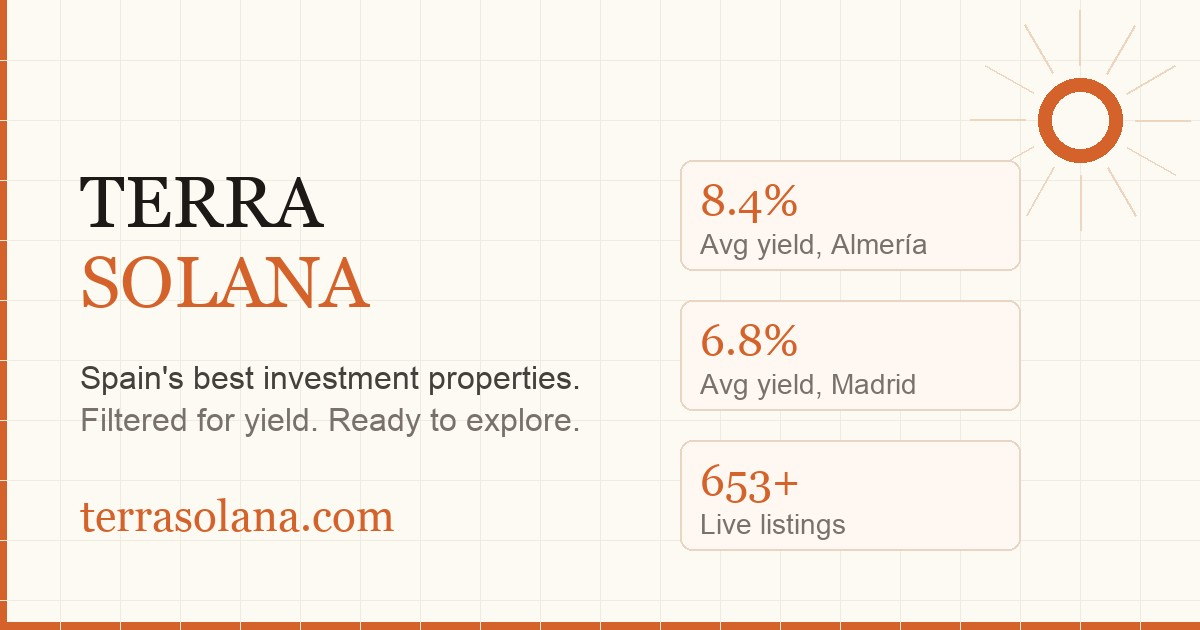
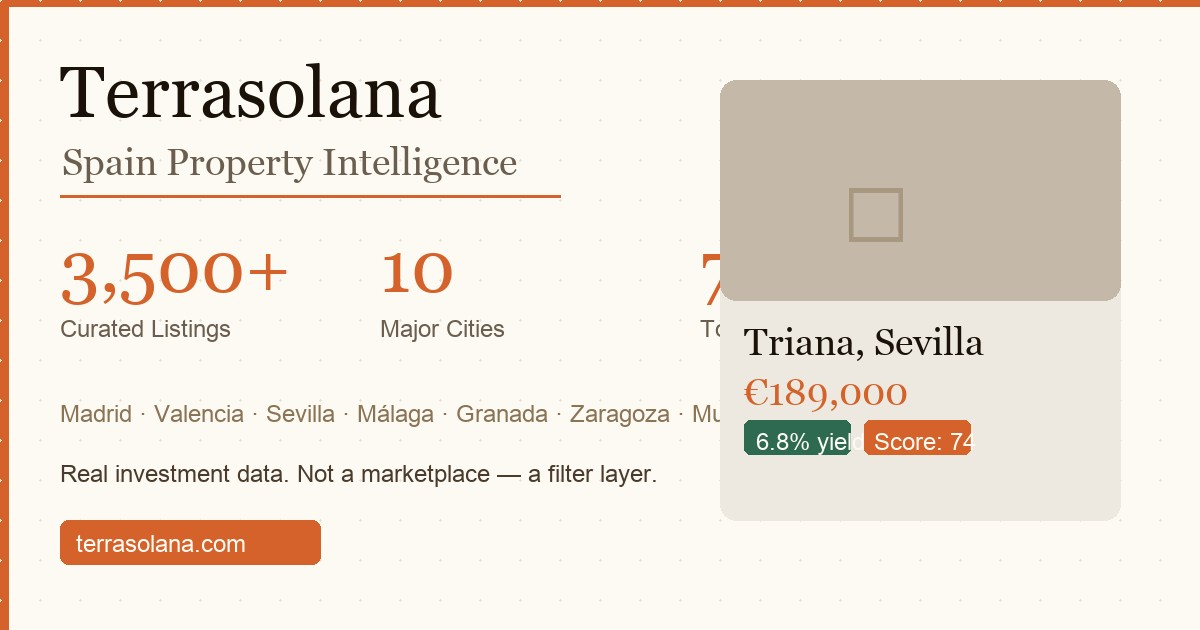
6 fixes: OG image updated, 10-city footer, city photos new cities, blog stats updated, dark mode 44px touch, hero H1 mobile clamp

Changed region(s): [[0.0, 0.0, 1.0, 1.0], [0.5858, 0.1206, 0.9867, 0.4825], [0.3083, 0.5127, 0.4317, 0.5429]]

diff --git a/privacy.html b/privacy.html
@@ -20,7 +20,7 @@
 <body>
 <nav id="mainNav">
   <a href="/" class="nav-logo"><div class="nav-logomark">☀</div><span class="nav-wordmark">Terra<span>solana</span></span></a>
-  <ul class="nav-links"><li><a href="/search.html">Search</a></li><li><a href="/about.html">About</a></li><li><a href="/faq.html">FAQ</a></li>
+  <ul class="nav-links"><li><a href="/search.html">Search Properties</a></li><li><a href="/search.html?city=valencia">Valencia</a></li><li><a href="/search.html?city=madrid">Madrid</a></li><li><a href="/search.html?city=malaga">Málaga</a></li><li><a href="/search.html?city=alicante">Alicante</a></li><li><a href="/search.html?city=almeria">Almería</a></li><li><a href="/search.html?city=sevilla">Sevilla</a></li><li><a href="/search.html?city=granada">Granada</a></li><li><a href="/search.html?city=zaragoza">Zaragoza</a></li><li><a href="/search.html?city=murcia">Murcia</a></li><li><a href="/search.html?city=palma">Palma de Mallorca</a></li><li><a href="/about.html">About</a></li><li><a href="/faq.html">FAQ</a></li>
     <li><a href="/blog.html">Blog</a></li>
     <li><a href="/newsletter.html">Newsletter</a></li></ul>
   <button id="themeToggle" class="theme-toggle" aria-label="Toggle dark mode" title="Toggle dark mode">☀</button>
@@ -57,7 +57,7 @@
   <h2>Contact</h2>
   <p>Questions about this policy: <a href="mailto:contact@terrasolana.com" style="color:var(--accent)">contact@terrasolana.com</a></p>
 </div>
-<footer><div class="footer-inner"><div><div class="footer-brand-name">Terrasolana</div><p class="footer-brand-desc">Spain property intelligence for serious buyers.</p></div><div><div class="footer-col-title">Explore</div><ul class="footer-links"><li><a href="/search.html">Search</a></li><li><a href="/about.html">About</a></li></ul></div><div><div class="footer-col-title">Legal</div><ul class="footer-links"><li><a href="/privacy.html">Privacy</a></li><li><a href="/terms.html">Terms</a></li></ul></div></div><div class="footer-bottom"><span>© 2026 Terrasolana</span></div></footer>
+<footer><div class="footer-inner"><div><div class="footer-brand-name">Terrasolana</div><p class="footer-brand-desc">Spain property intelligence for serious buyers.</p></div><div><div class="footer-col-title">Explore</div><ul class="footer-links"><li><a href="/search.html">Search Properties</a></li><li><a href="/search.html?city=valencia">Valencia</a></li><li><a href="/search.html?city=madrid">Madrid</a></li><li><a href="/search.html?city=malaga">Málaga</a></li><li><a href="/search.html?city=alicante">Alicante</a></li><li><a href="/search.html?city=almeria">Almería</a></li><li><a href="/search.html?city=sevilla">Sevilla</a></li><li><a href="/search.html?city=granada">Granada</a></li><li><a href="/search.html?city=zaragoza">Zaragoza</a></li><li><a href="/search.html?city=murcia">Murcia</a></li><li><a href="/search.html?city=palma">Palma de Mallorca</a></li><li><a href="/about.html">About</a></li></ul></div><div><div class="footer-col-title">Legal</div><ul class="footer-links"><li><a href="/privacy.html">Privacy</a></li><li><a href="/terms.html">Terms</a></li></ul></div></div><div class="footer-bottom"><span>© 2026 Terrasolana</span></div></footer>
 <script>window.addEventListener('scroll',()=>{document.getElementById('mainNav').classList.toggle('scrolled',window.scrollY>20)});</script>
 <script src="/theme.js"></script>
 <script src="/consent.js"></script>

diff --git a/terms.html b/terms.html
@@ -20,7 +20,7 @@
 <body>
 <nav id="mainNav">
   <a href="/" class="nav-logo"><div class="nav-logomark">☀</div><span class="nav-wordmark">Terra<span>solana</span></span></a>
-  <ul class="nav-links"><li><a href="/search.html">Search</a></li><li><a href="/about.html">About</a></li><li><a href="/faq.html">FAQ</a></li>
+  <ul class="nav-links"><li><a href="/search.html">Search Properties</a></li><li><a href="/search.html?city=valencia">Valencia</a></li><li><a href="/search.html?city=madrid">Madrid</a></li><li><a href="/search.html?city=malaga">Málaga</a></li><li><a href="/search.html?city=alicante">Alicante</a></li><li><a href="/search.html?city=almeria">Almería</a></li><li><a href="/search.html?city=sevilla">Sevilla</a></li><li><a href="/search.html?city=granada">Granada</a></li><li><a href="/search.html?city=zaragoza">Zaragoza</a></li><li><a href="/search.html?city=murcia">Murcia</a></li><li><a href="/search.html?city=palma">Palma de Mallorca</a></li><li><a href="/about.html">About</a></li><li><a href="/faq.html">FAQ</a></li>
     <li><a href="/blog.html">Blog</a></li>
     <li><a href="/newsletter.html">Newsletter</a></li></ul>
   <button id="themeToggle" class="theme-toggle" aria-label="Toggle dark mode" title="Toggle dark mode">☀</button>
@@ -46,7 +46,7 @@
   <h2>Contact</h2>
   <p><a href="mailto:contact@terrasolana.com" style="color:var(--accent)">contact@terrasolana.com</a></p>
 </div>
-<footer><div class="footer-inner"><div><div class="footer-brand-name">Terrasolana</div><p class="footer-brand-desc">Spain property intelligence for serious buyers.</p></div><div><div class="footer-col-title">Explore</div><ul class="footer-links"><li><a href="/search.html">Search</a></li><li><a href="/about.html">About</a></li></ul></div><div><div class="footer-col-title">Legal</div><ul class="footer-links"><li><a href="/privacy.html">Privacy</a></li><li><a href="/terms.html">Terms</a></li></ul></div></div><div class="footer-bottom"><span>© 2026 Terrasolana</span></div></footer>
+<footer><div class="footer-inner"><div><div class="footer-brand-name">Terrasolana</div><p class="footer-brand-desc">Spain property intelligence for serious buyers.</p></div><div><div class="footer-col-title">Explore</div><ul class="footer-links"><li><a href="/search.html">Search Properties</a></li><li><a href="/search.html?city=valencia">Valencia</a></li><li><a href="/search.html?city=madrid">Madrid</a></li><li><a href="/search.html?city=malaga">Málaga</a></li><li><a href="/search.html?city=alicante">Alicante</a></li><li><a href="/search.html?city=almeria">Almería</a></li><li><a href="/search.html?city=sevilla">Sevilla</a></li><li><a href="/search.html?city=granada">Granada</a></li><li><a href="/search.html?city=zaragoza">Zaragoza</a></li><li><a href="/search.html?city=murcia">Murcia</a></li><li><a href="/search.html?city=palma">Palma de Mallorca</a></li><li><a href="/about.html">About</a></li></ul></div><div><div class="footer-col-title">Legal</div><ul class="footer-links"><li><a href="/privacy.html">Privacy</a></li><li><a href="/terms.html">Terms</a></li></ul></div></div><div class="footer-bottom"><span>© 2026 Terrasolana</span></div></footer>
 <script>window.addEventListener('scroll',()=>{document.getElementById('mainNav').classList.toggle('scrolled',window.scrollY>20)});</script>
 <script src="/theme.js"></script>
 <script src="/consent.js"></script>

diff --git a/blog/best-places-invest-spain-2026.html b/blog/best-places-invest-spain-2026.html
@@ -201,13 +201,13 @@
 
     <p>The decision between these five markets comes down to three questions. First, what yield do you need to justify the investment? If you require 8% gross or above, Almería and Madrid's secondary districts offer the most reliable paths to that target. Valencia and Alicante can reach those levels selectively; Málaga requires careful neighbourhood selection to get there consistently in 2026. Second, how long can you commit capital? Almería and parts of Alicante are yield markets, not liquid trading markets. Buy there planning to hold for seven to ten years. Madrid offers the strongest combination of yield and exit options. Third, do you plan to use the property personally? Valencia, Alicante, and Málaga are each genuinely liveable cities with international infrastructure. Almería is not, in the way that matters to most Northern European buyers.</p>
 
-    <p>What all five cities share is this: they remain substantially more affordable than comparable European property markets in France, Portugal, or Italy, and their rental markets are structurally undersupplied relative to demand. The combination of tourism growth, EU relocation flows, and chronic under-construction of new residential supply means that rental demand is unlikely to weaken in any of these cities over the medium term. The risk is on the cost side — Spanish mortgage rates, while below their 2023 peak, remain meaningfully higher than the COVID-era floor — and on the regulatory side, particularly for anyone tempted by short-term rentals.</p>
+    <p>What all ten cities share is this: they remain substantially more affordable than comparable European property markets in France, Portugal, or Italy, and their rental markets are structurally undersupplied relative to demand. The combination of tourism growth, EU relocation flows, and chronic under-construction of new residential supply means that rental demand is unlikely to weaken in any of these cities over the medium term. The risk is on the cost side — Spanish mortgage rates, while below their 2023 peak, remain meaningfully higher than the COVID-era floor — and on the regulatory side, particularly for anyone tempted by short-term rentals.</p>
 
     <p>The best time to buy in any of these markets was two or three years ago. The second-best time, as the maxim goes, is now — but only with clear numbers, realistic yield expectations, and a local agent who knows the specific barrios where the genuine value sits. That combination is what Terrasolana is built to provide.</p>
   </div>
 
   <div class="blog-cta">
-    <h3>Browse investment-grade properties in all five cities</h3>
+    <h3>Browse investment-grade properties in all ten cities</h3>
     <p>Filter by yield, city, price, and opportunity score. Every listing comes with real investment data.</p>
     <a href="/search.html" class="btn-primary">Browse Properties →</a>
   </div>

diff --git a/blog/buy-to-let-rules-spain-2026.html b/blog/buy-to-let-rules-spain-2026.html
@@ -134,7 +134,7 @@
   <div class="blog-body">
     <p>Spain is one of the most accessible European countries for foreign property investors. There are no ownership restrictions on non-EU citizens, the legal framework for letting residential property is well-established and broadly landlord-friendly by European standards, and the Spanish property registry provides clear title verification. None of this means buying and letting in Spain is simple. It means the complexities are comprehensible with the right guidance rather than unknowable without it.</p>
 
-    <p>The most important thing to understand upfront is that Spain's rental regulatory landscape has been fragmenting at the regional level for the past three years, particularly around short-term tourist rentals. The national framework provided by the Urban Leases Act governs long-term residential letting consistently across the country. Short-term tourist lets are regulated by each of Spain's seventeen autonomous communities independently, and the rules differ dramatically between them. What is permitted in Andalusia may be prohibited in Valencia. What requires only registration in Murcia requires full planning consent in the Balearic Islands. This guide covers the national framework and the specific rules in the five cities Terrasolana covers — Madrid, Valencia, Málaga, Alicante, and Almería.</p>
+    <p>The most important thing to understand upfront is that Spain's rental regulatory landscape has been fragmenting at the regional level for the past three years, particularly around short-term tourist rentals. The national framework provided by the Urban Leases Act governs long-term residential letting consistently across the country. Short-term tourist lets are regulated by each of Spain's seventeen autonomous communities independently, and the rules differ dramatically between them. What is permitted in Andalusia may be prohibited in Valencia. What requires only registration in Murcia requires full planning consent in the Balearic Islands. This guide covers the national framework and the specific rules in the ten cities Terrasolana covers — Madrid, Valencia, Málaga, Alicante, and Almería.</p>
 
     <div class="warn-callout">
       <strong>Important:</strong> This guide provides general information for international buyers. It is not legal advice. Property law, tax rules, and short-term rental regulations in Spain change frequently and vary by autonomous community. Always consult a qualified Spanish abogado (property lawyer) and a gestor (tax advisor) before completing a purchase or beginning to let a property.

diff --git a/index.html b/index.html
@@ -19,7 +19,7 @@
   <link rel="stylesheet" href="/shared.css">
   <style>
     /* ── Hero ────────────────────────────────────────── */
-    .hero {
+    .hero { overflow: hidden;
       min-height: 100vh;
       display: flex;
       flex-direction: column;
@@ -283,7 +283,7 @@
     @media (max-width: 640px) {
       .hero  { padding: calc(var(--nav-height) + 32px) 16px 56px; }
       section { padding: 52px 16px; }
-      .hero-h1 { font-size: clamp(28px, 8vw, 40px); word-break: break-word; padding-right: 16px; }
+      .hero-h1 { font-size: clamp(26px, 7vw, 38px); word-break: break-word; overflow-wrap: break-word; padding-right: 16px; max-width: 100%; }
       .hero-sub { font-size: 16px; }
       .hero-cta { flex-direction: column; align-items: flex-start; }
       .hero-cta .btn-primary,
@@ -563,6 +563,11 @@
         <li><a href="/search.html?city=malaga">Málaga</a></li>
         <li><a href="/search.html?city=almeria">Almería</a></li>
         <li><a href="/search.html?city=alicante">Alicante</a></li>
+        <li><a href="/search.html?city=sevilla">Sevilla</a></li>
+        <li><a href="/search.html?city=granada">Granada</a></li>
+        <li><a href="/search.html?city=zaragoza">Zaragoza</a></li>
+        <li><a href="/search.html?city=murcia">Murcia</a></li>
+        <li><a href="/search.html?city=palma">Palma de Mallorca</a></li>
       </ul>
     </div>
     <div>
@@ -646,7 +651,7 @@ let listings = [];
 
 async function loadData() {
   try {
-    const res = await fetch('/data/listings.json?v=8');
+    const res = await fetch('/data/listings.json?v=9');
     listings = await res.json();
     populateHeroTopPicks();
     populateCities();
@@ -670,6 +675,11 @@ const CITY_PHOTOS = {
   malaga:   '/images/cities/malaga.jpg',
   almeria:  '/images/cities/almeria.jpg',
   alicante: '/images/cities/alicante.jpg',
+  sevilla:  'https://images.unsplash.com/photo-1559564484-4e2c7e13a97d?w=800&auto=format&fit=crop&q=80',
+  granada:  'https://images.unsplash.com/photo-1541343672885-9be56236302a?w=800&auto=format&fit=crop&q=80',
+  zaragoza: 'https://images.unsplash.com/photo-1558618666-fcd25c85cd64?w=800&auto=format&fit=crop&q=80',
+  murcia:   'https://images.unsplash.com/photo-1574362848149-11496d93a7c7?w=800&auto=format&fit=crop&q=80',
+  palma:    'https://images.unsplash.com/photo-1555990793-da11153b6c8b?w=800&auto=format&fit=crop&q=80',
 };
 
 function cityCardImage(c) {

diff --git a/contact.html b/contact.html
@@ -33,7 +33,7 @@
     <span class="nav-wordmark">Terra<span>solana</span></span>
   </a>
   <ul class="nav-links">
-    <li><a href="/search.html">Search</a></li>
+    <li><a href="/search.html">Search Properties</a></li><li><a href="/search.html?city=valencia">Valencia</a></li><li><a href="/search.html?city=madrid">Madrid</a></li><li><a href="/search.html?city=malaga">Málaga</a></li><li><a href="/search.html?city=alicante">Alicante</a></li><li><a href="/search.html?city=almeria">Almería</a></li><li><a href="/search.html?city=sevilla">Sevilla</a></li><li><a href="/search.html?city=granada">Granada</a></li><li><a href="/search.html?city=zaragoza">Zaragoza</a></li><li><a href="/search.html?city=murcia">Murcia</a></li><li><a href="/search.html?city=palma">Palma de Mallorca</a></li>
     <li><a href="/about.html">About</a></li>
     <li><a href="/faq.html">FAQ</a></li>
     <li><a href="/blog.html">Blog</a></li>
@@ -82,7 +82,7 @@
 <footer>
   <div class="footer-inner">
     <div><div class="footer-brand-name">Terrasolana</div><p class="footer-brand-desc">Spain property intelligence for serious buyers.</p></div>
-    <div><div class="footer-col-title">Explore</div><ul class="footer-links"><li><a href="/search.html">Search</a></li><li><a href="/newsletter.html">Newsletter</a></li><li><a href="/about.html">About</a></li></ul></div>
+    <div><div class="footer-col-title">Explore</div><ul class="footer-links"><li><a href="/search.html">Search Properties</a></li><li><a href="/search.html?city=valencia">Valencia</a></li><li><a href="/search.html?city=madrid">Madrid</a></li><li><a href="/search.html?city=malaga">Málaga</a></li><li><a href="/search.html?city=alicante">Alicante</a></li><li><a href="/search.html?city=almeria">Almería</a></li><li><a href="/search.html?city=sevilla">Sevilla</a></li><li><a href="/search.html?city=granada">Granada</a></li><li><a href="/search.html?city=zaragoza">Zaragoza</a></li><li><a href="/search.html?city=murcia">Murcia</a></li><li><a href="/search.html?city=palma">Palma de Mallorca</a></li><li><a href="/newsletter.html">Newsletter</a></li><li><a href="/about.html">About</a></li></ul></div>
     <div><div class="footer-col-title">Legal</div><ul class="footer-links"><li><a href="/privacy.html">Privacy</a></li><li><a href="/terms.html">Terms</a></li></ul></div>
   </div>
   <div class="footer-bottom"><span>© 2026 Terrasolana</span></div>

diff --git a/blog/rental-yield-spain-by-city.html b/blog/rental-yield-spain-by-city.html
@@ -138,7 +138,7 @@
   <div class="blog-body">
     <p>Most articles about rental yield in Spain cite the same figures: 5.4% national average, slightly higher in secondary cities, slightly lower in prime locations. These numbers are accurate in the way that averages are always accurate — they summarise a dataset without telling you anything actionable about the specific market you are trying to enter. A global average gross yield of 5.4% includes a three-bedroom penthouse in Puerto Banús sitting unsold for eighteen months and a sixty-square-metre apartment in Almería's old town producing 13.5% gross on an eighty-thousand-euro purchase price. These are not the same investment. The average obscures what matters.</p>
 
-    <p>This analysis uses Terrasolana's own database of 653 active listings scraped from Idealista across five Spanish cities, filtered to show only investment-grade properties yielding three percent or above. The yield figures below represent what is actually available to buy today — not theoretical median calculations or market reports based on asking rents. Rental estimates are derived from city-level market benchmarks calibrated by property size and type, and cross-referenced against the <a href="/methodology.html">methodology we publish openly</a>.</p>
+    <p>This analysis uses Terrasolana's own database of 3,500+ active listings scraped across ten Spanish cities, filtered to show only investment-grade properties yielding three percent or above. The yield figures below represent what is actually available to buy today — not theoretical median calculations or market reports based on asking rents. Rental estimates are derived from city-level market benchmarks calibrated by property size and type, and cross-referenced against the <a href="/methodology.html">methodology we publish openly</a>.</p>
 
     <h2>How Rental Yield Actually Works in Spain</h2>
 

diff --git a/search.html b/search.html
@@ -808,7 +808,7 @@ function loadMore() { page++; renderResults(); }
 
 // ── Card builder ───────────────────────────────────────
 function cityEmoji(c) {
-  return {valencia:'🌊',madrid:'🏙',malaga:'☀',almeria:'🏺',alicante:'⛵'}[c] || '🏠';
+  return {valencia:'🌊',madrid:'🏙',malaga:'☀',almeria:'🏺',alicante:'⛵',sevilla:'🦢',granada:'🕌',zaragoza:'🏛',murcia:'🌿',palma:'🌴'}[c] || '🏠';
 }
 function formatPrice(p) {
   if (!p) return '—';
@@ -825,6 +825,11 @@ const CITY_PHOTOS = {
   malaga:   '/images/cities/malaga.jpg',
   almeria:  '/images/cities/almeria.jpg',
   alicante: '/images/cities/alicante.jpg',
+  sevilla:  'https://images.unsplash.com/photo-1559564484-4e2c7e13a97d?w=800&auto=format&fit=crop&q=80',
+  granada:  'https://images.unsplash.com/photo-1541343672885-9be56236302a?w=800&auto=format&fit=crop&q=80',
+  zaragoza: 'https://images.unsplash.com/photo-1558618666-fcd25c85cd64?w=800&auto=format&fit=crop&q=80',
+  murcia:   'https://images.unsplash.com/photo-1574362848149-11496d93a7c7?w=800&auto=format&fit=crop&q=80',
+  palma:    'https://images.unsplash.com/photo-1555990793-da11153b6c8b?w=800&auto=format&fit=crop&q=80',
 };
 
 function cardImage(l) {
@@ -1092,7 +1097,7 @@ async function init() {
   renderFilters();
 
   try {
-    const res = await fetch('/data/listings.json?v=8');
+    const res = await fetch('/data/listings.json?v=9');
     allListings = await res.json();
     applyFilters();
   } catch(e) {

diff --git a/about.html b/about.html
@@ -126,10 +126,16 @@
       <div class="footer-col-title">Explore</div>
       <ul class="footer-links">
         <li><a href="/search.html">Search Properties</a></li>
-        <li><a href="/blog.html">Blog</a></li>
-        <li><a href="/newsletter.html">Newsletter</a></li>
-        <li><a href="/methodology.html">Methodology</a></li>
-        <li><a href="/about.html">About</a></li>
+        <li><a href="/search.html?city=valencia">Valencia</a></li>
+        <li><a href="/search.html?city=madrid">Madrid</a></li>
+        <li><a href="/search.html?city=malaga">Málaga</a></li>
+        <li><a href="/search.html?city=alicante">Alicante</a></li>
+        <li><a href="/search.html?city=almeria">Almería</a></li>
+        <li><a href="/search.html?city=sevilla">Sevilla</a></li>
+        <li><a href="/search.html?city=granada">Granada</a></li>
+        <li><a href="/search.html?city=zaragoza">Zaragoza</a></li>
+        <li><a href="/search.html?city=murcia">Murcia</a></li>
+        <li><a href="/search.html?city=palma">Palma de Mallorca</a></li>
       </ul>
     </div>
     <div>

diff --git a/blog.html b/blog.html
@@ -208,6 +208,16 @@
       <div class="footer-col-title">Explore</div>
       <ul class="footer-links">
         <li><a href="/search.html">Search Properties</a></li>
+        <li><a href="/search.html?city=valencia">Valencia</a></li>
+        <li><a href="/search.html?city=madrid">Madrid</a></li>
+        <li><a href="/search.html?city=malaga">Málaga</a></li>
+        <li><a href="/search.html?city=alicante">Alicante</a></li>
+        <li><a href="/search.html?city=almeria">Almería</a></li>
+        <li><a href="/search.html?city=sevilla">Sevilla</a></li>
+        <li><a href="/search.html?city=granada">Granada</a></li>
+        <li><a href="/search.html?city=zaragoza">Zaragoza</a></li>
+        <li><a href="/search.html?city=murcia">Murcia</a></li>
+        <li><a href="/search.html?city=palma">Palma de Mallorca</a></li>
         <li><a href="/blog.html">Blog</a></li>
         <li><a href="/methodology.html">Methodology</a></li>
         <li><a href="/about.html">About</a></li>

diff --git a/methodology.html b/methodology.html
@@ -341,6 +341,16 @@
       <div class="footer-col-title">Explore</div>
       <ul class="footer-links">
         <li><a href="/search.html">Search Properties</a></li>
+        <li><a href="/search.html?city=valencia">Valencia</a></li>
+        <li><a href="/search.html?city=madrid">Madrid</a></li>
+        <li><a href="/search.html?city=malaga">Málaga</a></li>
+        <li><a href="/search.html?city=alicante">Alicante</a></li>
+        <li><a href="/search.html?city=almeria">Almería</a></li>
+        <li><a href="/search.html?city=sevilla">Sevilla</a></li>
+        <li><a href="/search.html?city=granada">Granada</a></li>
+        <li><a href="/search.html?city=zaragoza">Zaragoza</a></li>
+        <li><a href="/search.html?city=murcia">Murcia</a></li>
+        <li><a href="/search.html?city=palma">Palma de Mallorca</a></li>
         <li><a href="/methodology.html">Methodology</a></li>
         <li><a href="/about.html">About</a></li>
         <li><a href="/faq.html">FAQ</a></li>

diff --git a/newsletter.html b/newsletter.html
@@ -164,6 +164,16 @@
       <div class="footer-col-title">Explore</div>
       <ul class="footer-links">
         <li><a href="/search.html">Search Properties</a></li>
+        <li><a href="/search.html?city=valencia">Valencia</a></li>
+        <li><a href="/search.html?city=madrid">Madrid</a></li>
+        <li><a href="/search.html?city=malaga">Málaga</a></li>
+        <li><a href="/search.html?city=alicante">Alicante</a></li>
+        <li><a href="/search.html?city=almeria">Almería</a></li>
+        <li><a href="/search.html?city=sevilla">Sevilla</a></li>
+        <li><a href="/search.html?city=granada">Granada</a></li>
+        <li><a href="/search.html?city=zaragoza">Zaragoza</a></li>
+        <li><a href="/search.html?city=murcia">Murcia</a></li>
+        <li><a href="/search.html?city=palma">Palma de Mallorca</a></li>
         <li><a href="/faq.html">FAQ</a></li>
     <li><a href="/blog.html">Blog</a></li>
     <li><a href="/blog.html">Blog</a></li>
